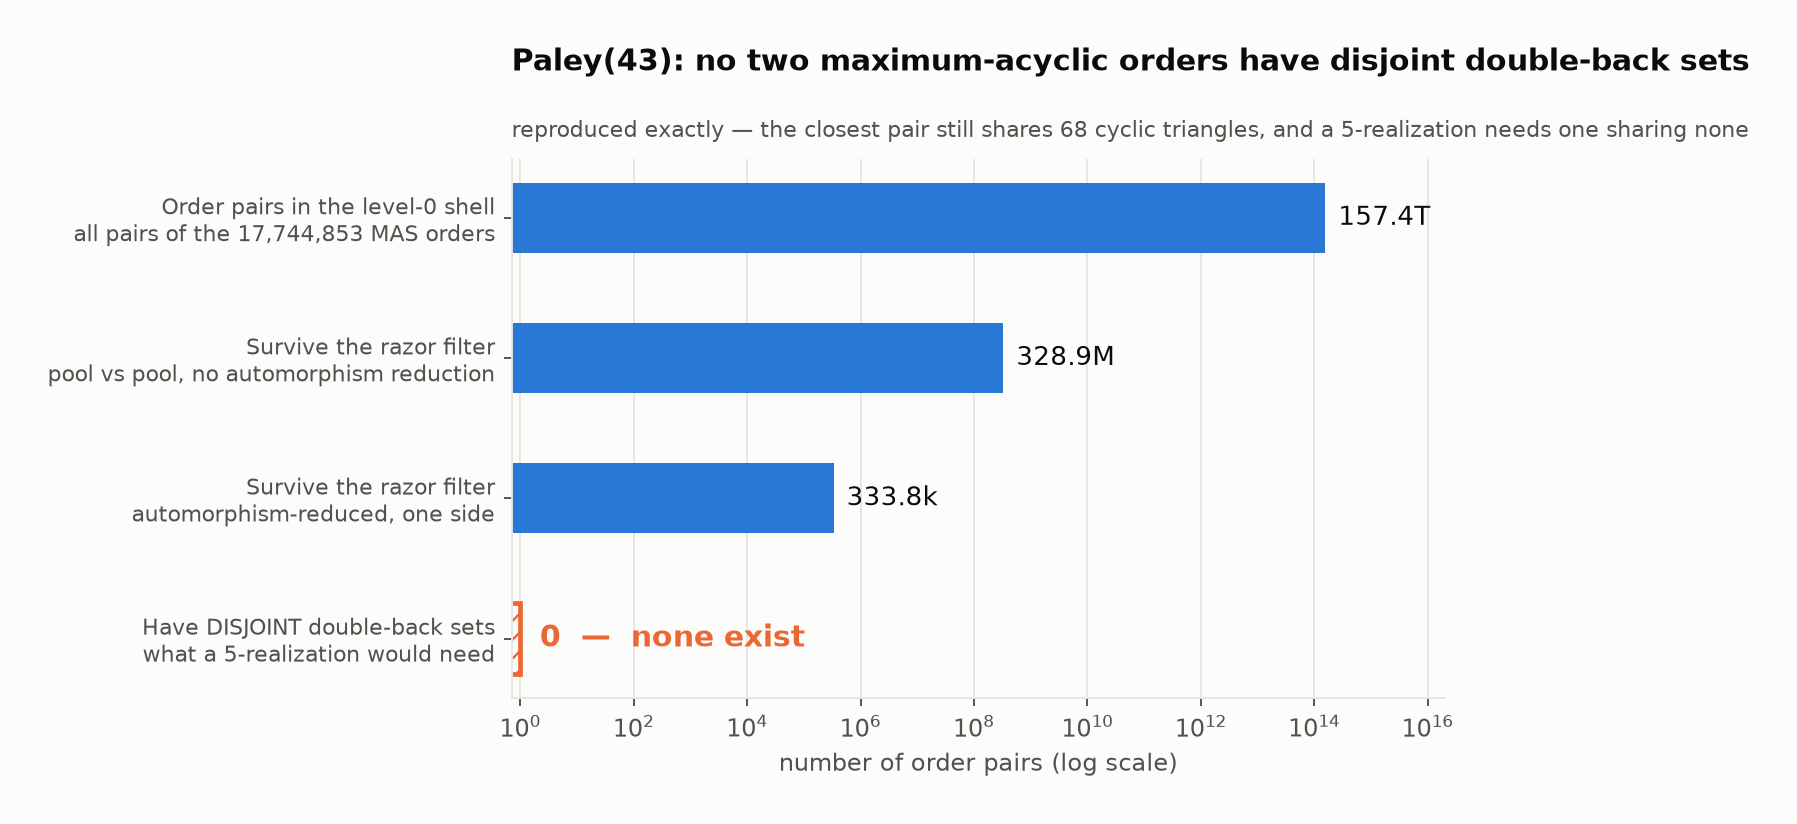
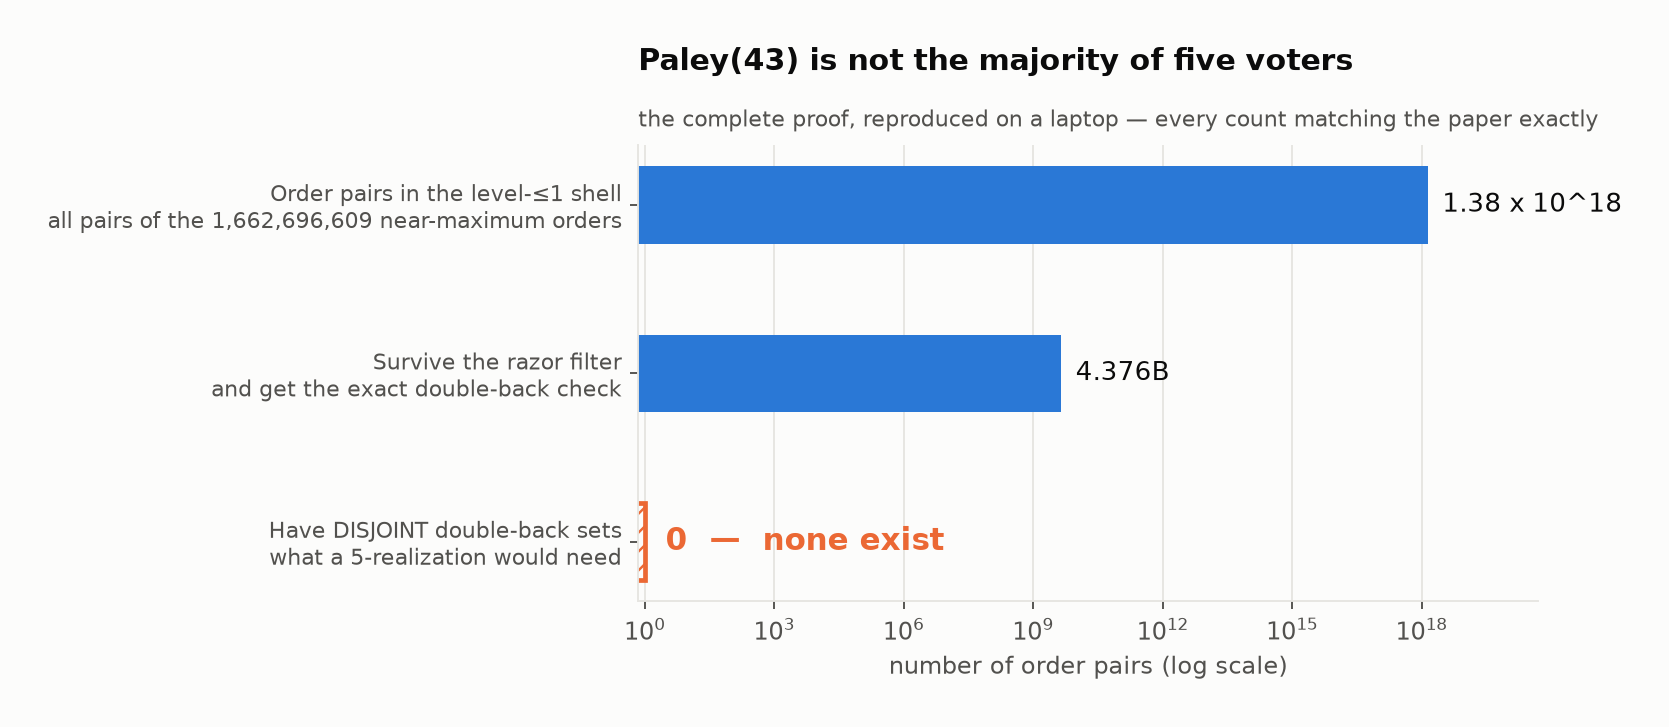
figures: lead with the completed level-<=1 result

diff --git a/repro/figures/make_figures.py b/repro/figures/make_figures.py
@@ -39,6 +39,9 @@ CENSUS = os.path.join(os.path.dirname(os.path.abspath(__file__)), "n11_census.js
 
 
 def human(v):
+    if v >= 1e15:                       # beyond "trillion", plain powers of ten read better
+        e = int(f"{v:e}".split("e")[1])
+        return f"{v/10**e:.2f} x 10^{e}"
     for div, suf in ((1e12, "T"), (1e9, "B"), (1e6, "M"), (1e3, "k")):
         if v >= div:
             return f"{v/div:.4g}{suf}"
@@ -70,32 +73,32 @@ def save(fig, name):
 # runs 0f89ee57 (automorphism-reduced) and b560466d (pool vs pool)
 # =============================================================================
 def fig_funnel():
+    """The completed result: the full level-<=1 shell (run f6e968d1)."""
+    POOL = 1_662_696_609
     stages = [
-        ("Order pairs in the level-0 shell\nall pairs of the 17,744,853 MAS orders", 1.574e14),
-        ("Survive the razor filter\npool vs pool, no automorphism reduction", 328_864_989),
-        ("Survive the razor filter\nautomorphism-reduced, one side", 333_809),
+        ("Order pairs in the level-\u22641 shell\nall pairs of the 1,662,696,609 near-maximum orders", POOL * (POOL - 1) / 2),
+        ("Survive the razor filter\nand get the exact double-back check", 4_376_325_129),
         ("Have DISJOINT double-back sets\nwhat a 5-realization would need", 0),
     ]
-    fig, ax = plt.subplots(figsize=(9.8, 4.6))
-    fig.subplots_adjust(top=0.80, left=0.34)
+    fig, ax = plt.subplots(figsize=(9.8, 4.0))
+    fig.subplots_adjust(top=0.78, left=0.36)
     ys = list(range(len(stages)))[::-1]
     for y, (label, v) in zip(ys, stages):
         if v == 0:
-            ax.barh(y, 1.0, height=0.5, color=SURFACE, edgecolor=ORANGE, linewidth=2.0, hatch="///")
-            ax.text(2.2, y, "0  —  none exist", va="center", ha="left",
-                    color=ORANGE, fontweight="bold", fontsize=12.5)
+            ax.barh(y, 1.0, height=0.46, color=SURFACE, edgecolor=ORANGE, linewidth=2.0, hatch="///")
+            ax.text(3.0, y, "0  \u2014  none exist", va="center", ha="left",
+                    color=ORANGE, fontweight="bold", fontsize=13)
         else:
-            ax.barh(y, v, height=0.5, color=BLUE, linewidth=0)
-            ax.text(v * 1.7, y, human(v), va="center", ha="left", color=INK, fontsize=11)
+            ax.barh(y, v, height=0.46, color=BLUE, linewidth=0)
+            ax.text(v * 2.2, y, human(v), va="center", ha="left", color=INK, fontsize=11)
     ax.set_yticks(ys)
     ax.set_yticklabels([s[0] for s in stages], fontsize=9.5, color=INK2)
     ax.set_xscale("log")
-    ax.set_xlim(0.7, 2e16)
+    ax.set_xlim(0.7, 5e20)
     ax.set_xlabel("number of order pairs (log scale)")
     grid(ax)
-    head(ax, "Paley(43): no two maximum-acyclic orders have disjoint double-back sets",
-         "reproduced exactly — the closest pair still shares 68 cyclic triangles, "
-         "and a 5-realization needs one sharing none")
+    head(ax, "Paley(43) is not the majority of five voters",
+         "the complete proof, reproduced on a laptop \u2014 every count matching the paper exactly")
     save(fig, "fig1_level0_funnel.png")
 
 
@@ -156,26 +159,28 @@ def fig_modes():
                                    gridspec_kw={"width_ratios": [1.25, 1], "wspace": 0.45})
     fig.subplots_adjust(top=0.76, bottom=0.32, left=0.20)
 
-    modes = [("automorphism-reduced\none side, factor 903", 333_809),
-             ("pool vs pool\nreduction not used at all", 328_864_989)]
+    modes = [("level 0, aut-reduced", 333_809),
+             ("level 0, pool vs pool", 328_864_989),
+             ("level \u22641, aut-reduced\n(the full proof)", 4_376_325_129)]
     for i, (lab, pairs) in enumerate(modes):
-        ax1.barh(1 - i, pairs, height=0.44, color=BLUE, linewidth=0)
-        ax1.text(pairs * 1.6, 1 - i, human(pairs) + " pairs", va="center", color=INK, fontsize=10.5)
-    ax1.set_yticks([1, 0])
+        ax1.barh(2 - i, pairs, height=0.44, color=BLUE, linewidth=0)
+        ax1.text(pairs * 1.6, 2 - i, human(pairs) + " pairs", va="center", color=INK, fontsize=10.5)
+    ax1.set_yticks([2, 1, 0])
     ax1.set_yticklabels([m[0] for m in modes], fontsize=9.5)
     ax1.set_xscale("log")
-    ax1.set_xlim(1e5, 3e11)
+    ax1.set_xlim(1e5, 8e12)
     ax1.set_xlabel("candidate pairs given the exact double-back check (log)")
     grid(ax1)
     head(ax1, "Both modes: TRUE_DISJOINT = 0", size=11.5)
 
-    bars = [("automorphism-\nreduced", 71, ORANGE), ("pool vs pool", 68, AQUA), ("paper\nApp. A.4", 68, BLUE)]
+    bars = [("aut-reduced\nlevel 0", 71, ORANGE), ("aut-reduced\nlevel \u22641", 61, ORANGE),
+            ("pool vs pool\nlevel 0", 68, AQUA), ("paper\nApp. A.4", 68, BLUE)]
     for i, (lab, v, col) in enumerate(bars):
         ax2.bar(i, v, width=0.44, color=col, linewidth=0)
         ax2.text(i, v + 0.9, str(v), ha="center", va="bottom", color=INK, fontsize=11.5, fontweight="bold")
     ax2.set_xticks(range(len(bars)))
     ax2.set_xticklabels([b[0] for b in bars], fontsize=9.5)
-    ax2.set_ylim(0, 84)
+    ax2.set_ylim(0, 88)
     ax2.set_ylabel("minimum double-back overlap")
     grid(ax2, "y")
     head(ax2, "The one divergence, and its source", size=11.5)

diff --git a/reports/paley43-five-voters/report.md b/reports/paley43-five-voters/report.md
@@ -3,11 +3,9 @@
 **Paper:** [arXiv 2607.26690](https://arxiv.org/abs/2607.26690), L. Chindelevitch and A. Harutyunyan (29 pp., cs.DM)
 **Compute:** the author's Mac — 14 cores, 24 GB RAM, Apple clang 16, R 4.5.3, Python 3.12, OR-Tools 9.15, CPLEX 22.1 — every run launched through `orx exp run --backend local`, capped at 8 threads.
 
-![Level-0 screen funnel](images/fig1_level0_funnel.png)
+![Paley(43) is not the majority of five voters](images/fig1_level0_funnel.png)
 
-That is the paper's central computational claim, reproduced. Read it bottom-up: a five-voter realization of the Paley tournament on 43 vertices would require two of its "orders" to disagree in completely non-overlapping places. Among all 157 trillion pairs available to it, **not one** qualifies.
-
-The figure shows the level-0 shell, which is where this reproduction started. It finished somewhere considerably larger: the **full level-≤1 shell**, 1,662,696,609 orders, with all **4,376,325,129** (rep, pool) pairs checked and `TRUE_DISJOINT = 0` — every count matching the paper exactly. That is the whole §7 result, rebuilt from scratch on a laptop.
+That is the paper's central computational claim, reproduced end to end. Read it bottom-up: a five-voter realization of the Paley tournament on 43 vertices would need two near-maximum orders that disagree in completely non-overlapping places. Across the 1.38 × 10¹⁸ pairs available to it, **not one** qualifies — and the 4,376,325,129 that survive the filter were each checked exactly. Every count in that figure matches the paper.
 
 ## The question
 
